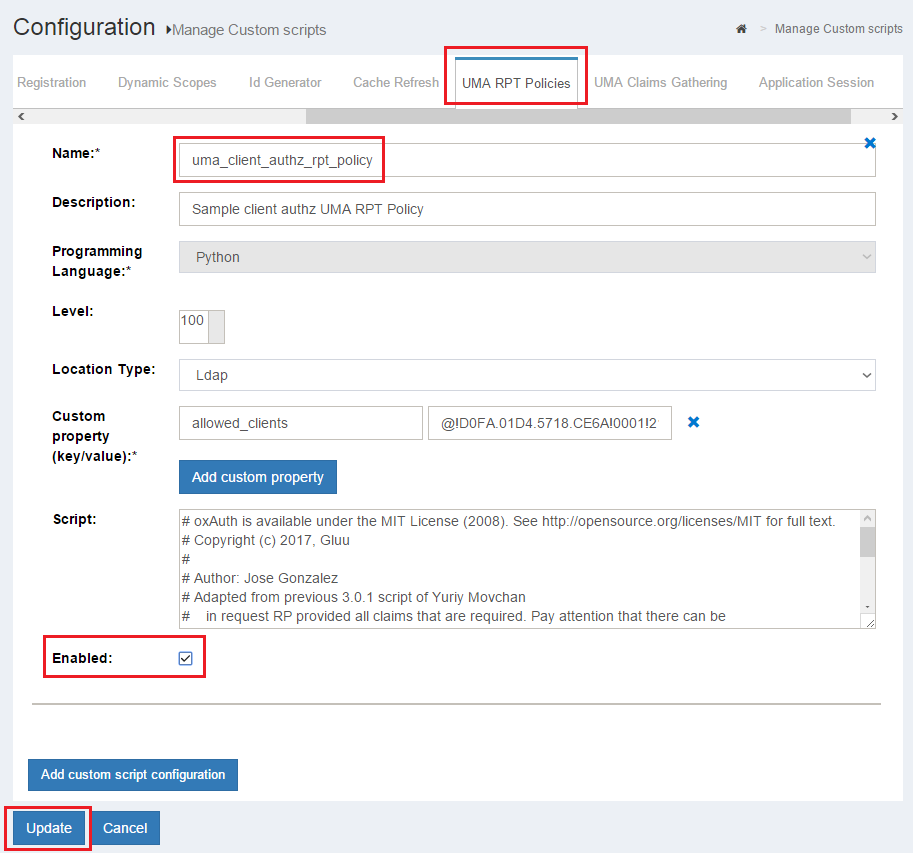
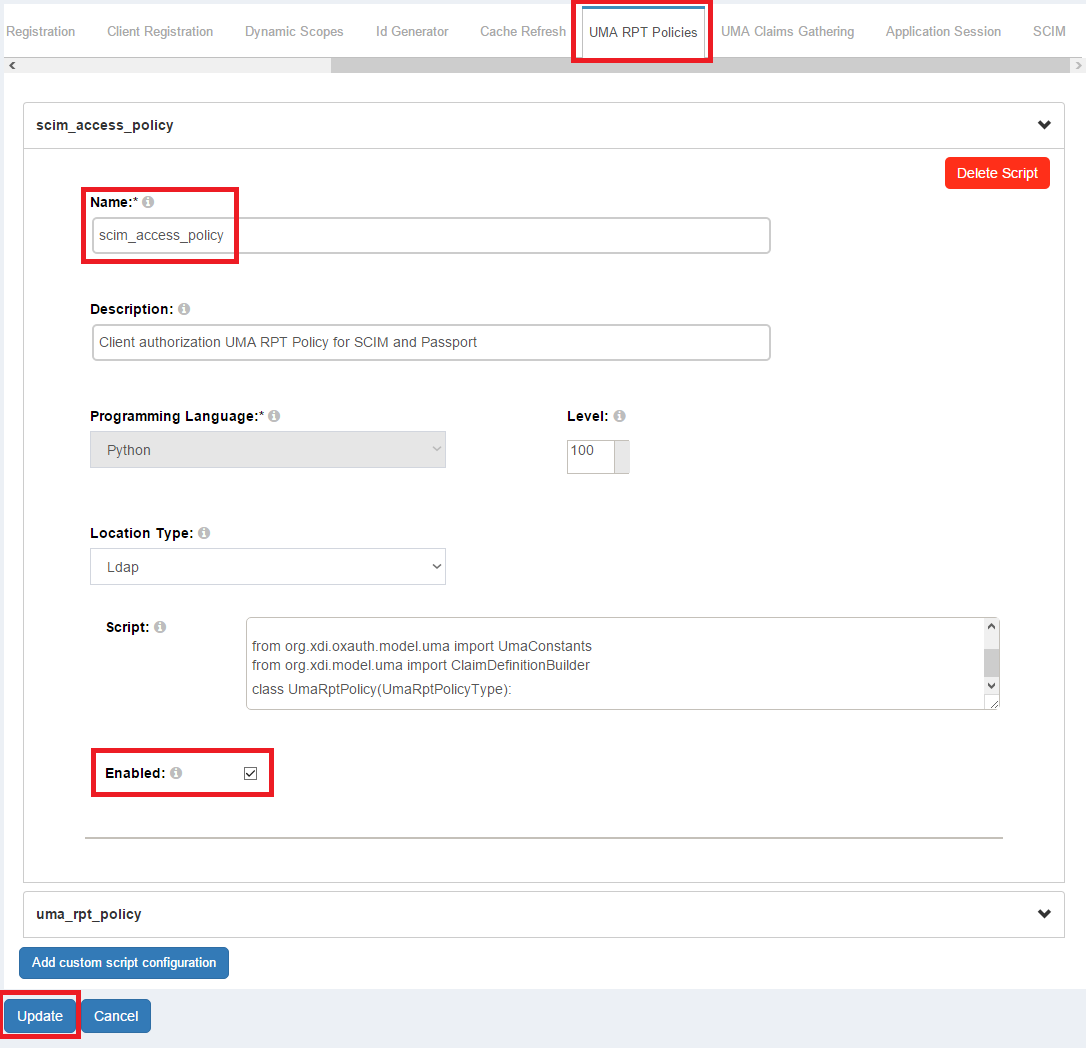
Update md and image wrt SCIM/passport cust script rename

diff --git a/3.1.4/source/user-management/scim2.md b/3.1.4/source/user-management/scim2.md
@@ -26,7 +26,7 @@ By default, the API is not active, so the first step is just to enable it:
 
 Then, enable UMA protection mode:
 
-- Activate the UMA SCIM custom script in oxTrust admin GUI: Go to `Configuration` > `Manage Custom Scripts`, and in the tab for `UMA RPT policies` check "Enabled" for the script labeled "Sample client authz UMA RPT Policy". Finally press the "Update" button
+- Activate the UMA SCIM custom script in oxTrust admin GUI: Go to `Configuration` > `Manage Custom Scripts`, and in the tab for `UMA RPT policies` check "Enabled" for the script labeled "scim_access_policy". Finally press the "Update" button
 
 ![enable uma](../img/scim/enable_uma.png)
 

diff --git a/3.1.4/source/authn-guide/passport.md b/3.1.4/source/authn-guide/passport.md
@@ -78,7 +78,7 @@ Enable the required custom scripts:
 
 - Login to oxTrust and navigate to "Configuration" > "Custom scripts"
 - In "Person Authentication" tab, collapse the script labelled "passport_social" and check "enabled". ![Enable passport_social](../img/user-authn/passport/enable-passport.png) 
-- In "UMA RPT Policies" tab, collapse the "uma_client_authz_rpt_policy" and check "enabled"
+- In "UMA RPT Policies" tab, collapse "scim_access_policy" and check "enabled"
 - Press "Update" at the bottom of the page
 
 Enable passport support:
